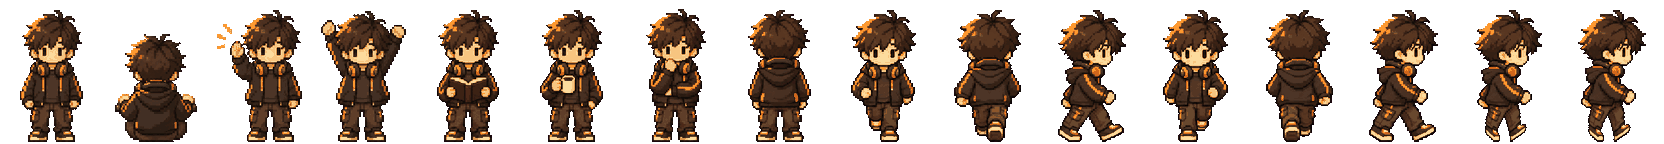
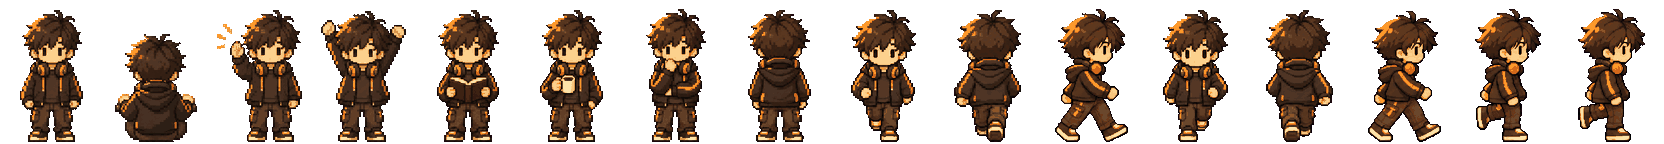
room: side walks use the drawn four-step cycles, cleaned of keying leftovers and lined up on the body

Changed region(s): [[0.8125, 0.0833, 1.0, 1.0], [0.625, 0.0556, 0.6875, 1.0]]

diff --git a/scripts/build_team_sprites.py b/scripts/build_team_sprites.py
@@ -10,6 +10,8 @@ a manifest the window reads.
     python scripts/build_team_sprites.py <art folder>
 
 The art folder holds bg.png, 1-8.png (actions), 9-16.png (walks),
+walk_1-3.png (optional: side-on walks in four steps, three characters to an
+image, in SIDE_WALKS order),
 old/1-8.png (poses), in role order, and optionally 17.png (more poses for the
 main character), 18.png (a second main character), 20.png (his further poses), 19.png (small things for
 the room), bg_props.png, whose lower
@@ -42,6 +44,11 @@ FRAMES = [
     # each stride by drawing the legs in under the hips.
     ("walk_side_3", "walk", 3, 2, -2), ("walk_side_4", "walk", 3, 2, -5),
 ]
+# Who is on each row of walk_1-3.png, when they exist. Their four columns are
+# a stride, the legs passing, the other stride, passing again.
+SIDE_WALKS = [["main", "main_m", "coder"], ["researcher", "summarizer", "librarian"],
+              ["archivist", "coordinator", "custom"]]
+SIDE_ORDER = ["walk_side_1", "walk_side_3", "walk_side_2", "walk_side_4"]
 LEGS = 0.30            # the part of a side-on figure that is legs
 PASS_SQUEEZE = 0.5     # how far in the feet come at the passing step
 STAND_H = 132          # standing height in room pixels (the room is 1536 wide)
@@ -225,6 +232,68 @@ def passing(cell: np.ndarray, bb):
     return out, bbox(out)
 
 
+def _clean(cell: np.ndarray, speck: int = 300) -> np.ndarray:
+    """Background left in a gap the keying can't reach (between hair and coat)
+    goes, and so do loose specks away from the figure."""
+    cell = cell.copy()
+    a = cell[..., :3].astype(np.int16)
+    pink = (a[..., 0] - a[..., 1] > 45) & (a[..., 2] - a[..., 1] > 25) & (np.abs(a[..., 0] - a[..., 2]) < 120)
+    cell[pink, 3] = 0
+    mask = cell[..., 3] > 0
+    h, w = mask.shape
+    seen = np.zeros_like(mask)
+    for y0, x0 in np.argwhere(mask):
+        if seen[y0, x0]:
+            continue
+        stack, piece = [(y0, x0)], []
+        seen[y0, x0] = True
+        while stack:
+            y, x = stack.pop()
+            piece.append((y, x))
+            for ny, nx in ((y + 1, x), (y - 1, x), (y, x + 1), (y, x - 1)):
+                if 0 <= ny < h and 0 <= nx < w and mask[ny, nx] and not seen[ny, nx]:
+                    seen[ny, nx] = True
+                    stack.append((ny, nx))
+        if len(piece) <= speck:
+            ys, xs = zip(*piece)
+            cell[list(ys), list(xs), 3] = 0
+    return cell
+
+
+def side_walks(art: str):
+    """Each character's drawn side-on walk, by role, in SIDE_ORDER; empty
+    when the sheets aren't there."""
+    out = {}
+    for n, roles in enumerate(SIDE_WALKS, start=1):
+        path = os.path.join(art, f"walk_{n}.png")
+        if not os.path.isfile(path):
+            return {}
+        frames = []
+        for cell, _ in sheet_frames(path, 4, 3):
+            cell = _clean(cell)
+            frames.append((cell, bbox(cell)))
+        for r, role in enumerate(roles):
+            out[role] = frames[r * 4:(r + 1) * 4]
+    return out
+
+
+def put_side_walk(atlas: Image.Image, drawn, stride_h: float) -> None:
+    """Swap the side walk in an atlas for the drawn four steps, sized so the
+    strides stand as tall as the ones they replace."""
+    scale = stride_h / standing_height(drawn, {0, 2})
+    names = [f[0] for f in FRAMES]
+    for name, (cell, bb) in zip(SIDE_ORDER, drawn):
+        i = names.index(name)
+        # Lined up on the body, not the box: a stride is wider than a passing
+        # step, and centring each box would rock the figure back and forth.
+        x0, y0, x1, y1 = bb
+        top = cell[y0:(y0 + y1) // 2, x0:x1, 3] > 0
+        body = float(np.nonzero(top)[1].mean()) if top.any() else (x1 - x0) / 2
+        dx = round(((x1 - x0) / 2 - body) * scale)
+        atlas.paste((0, 0, 0, 0), (i * CELL_W, 0, (i + 1) * CELL_W, CELL_H))
+        atlas.alpha_composite(place(cell, bb, scale), (i * CELL_W + dx, 0))
+
+
 def frame_of(frames, idx):
     """A frame by its source cell; a negative index is the passing step made
     from that stride."""
@@ -266,6 +335,7 @@ def second_main(art: str):
     frames = [walk.get(n, f) for n, f in zip(names, frames)]
     frames += [passing(*walk["walk_side_1"]), passing(*walk["walk_side_2"])]
     scale = STAND_H * 1.06 / standing_height(frames, {0, 4, 5, 6, 7})
+    drawn = side_walks(art).get("main_m")
     atlas = Image.new("RGBA", (CELL_W * len(FRAMES), CELL_H), (0, 0, 0, 0))
     for i, (cell, bb) in enumerate(frames):
         if names[i] == "type":
@@ -273,6 +343,9 @@ def second_main(art: str):
             x0, y0, x1, y1 = bb
             bb = (x0, y0, x1, y0 + round((y1 - y0) * 0.62))
         atlas.alpha_composite(place(cell, bb, scale), (i * CELL_W, 0))
+    if drawn:
+        x0, y0, x1, y1 = walk["walk_side_1"][1]
+        put_side_walk(atlas, drawn, (y1 - y0) * scale)
     return atlas
 
 
@@ -296,6 +369,7 @@ def more_props(art: str):
 def build(art: str) -> None:
     os.makedirs(OUT, exist_ok=True)
     manifest = {"cell": [CELL_W, CELL_H], "frames": [f[0] for f in FRAMES], "roles": ROLES}
+    drawn = side_walks(art)
     for n, role in enumerate(ROLES, start=1):
         sheets = {
             "pose": sheet_frames(os.path.join(art, "old", f"{n}.png"), 2, 2),
@@ -314,6 +388,9 @@ def build(art: str) -> None:
             if not bb:
                 continue
             atlas.alpha_composite(place(cell, bb, target / ref[sheet]), (i * CELL_W, 0))
+        if role in drawn:
+            x0, y0, x1, y1 = sheets["walk"][2][1]
+            put_side_walk(atlas, drawn[role], (y1 - y0) * target / ref["walk"])
         if role == "main":
             more = extra_main(art, target)
             if more:
